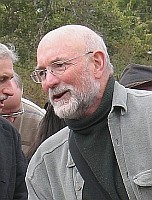
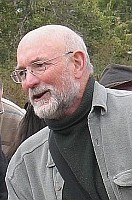
formatted teacher images

diff --git a/_sass/minima.scss b/_sass/minima.scss
@@ -68,6 +68,10 @@ $on-laptop: 800px !default;
   color: $grey-color;
 }
 
+.bold {
+  font-weight: bold;
+}
+
 .video-list {
   display: flex;
   align-items: flex-start;
@@ -77,6 +81,13 @@ $on-laptop: 800px !default;
     width: 263px;
     margin-bottom: 50px;
     margin-right: 20px;
+    line-height: 18px;
+  }
+
+  img {
+    border-radius: 30px;
+    height: 220px;
+    margin-bottom: 4px;
   }
 
   video {

diff --git a/my-teachers.md b/my-teachers.md
@@ -8,15 +8,19 @@ There are many teachers... more coming soon.
 
 <div class="video-list">
   <div>
-    <img src="https://mikikashtan.org/wp-content/uploads/2020/02/2018_MikiPortrait_opt.jpg" style="width: 320px; border-radius: 50px;" />
-    <span style="font-weight:bold;">MIKI KASHTAN</span><br>
+    <img src="/public/my teachers/2018_MikiPortrait_opt.jpeg" />
+    <br>
+    <span class="bold">MIKI KASHTAN</span>
+    <br>
     I am a practical visionary pursuing a world that works for all, exploring the application of the principles and tools of Nonviolent Communication (NVC) to social transformation
     <a href="https://mikikashtan.org/">https://mikikashtan.org/</a>
   </div>
 
   <div>
-    <img src="\public\my teachers\laurence-cole 2014.jpg" style="width: 320px; border-radius: 50px;" />
-    <span style="font-weight:bold;">LAURENCE COLE</span><br>
+    <img src="\public\my teachers\laurence-cole 2014.jpg" />
+    <br>
+    <span class="bold">LAURENCE COLE</span>
+    <br>
     Singing together to nourish the soul and re-enchant the world.
     <a href="https://www.laurencecole.com/">https://laurencecole.com/</a>
   </div>
